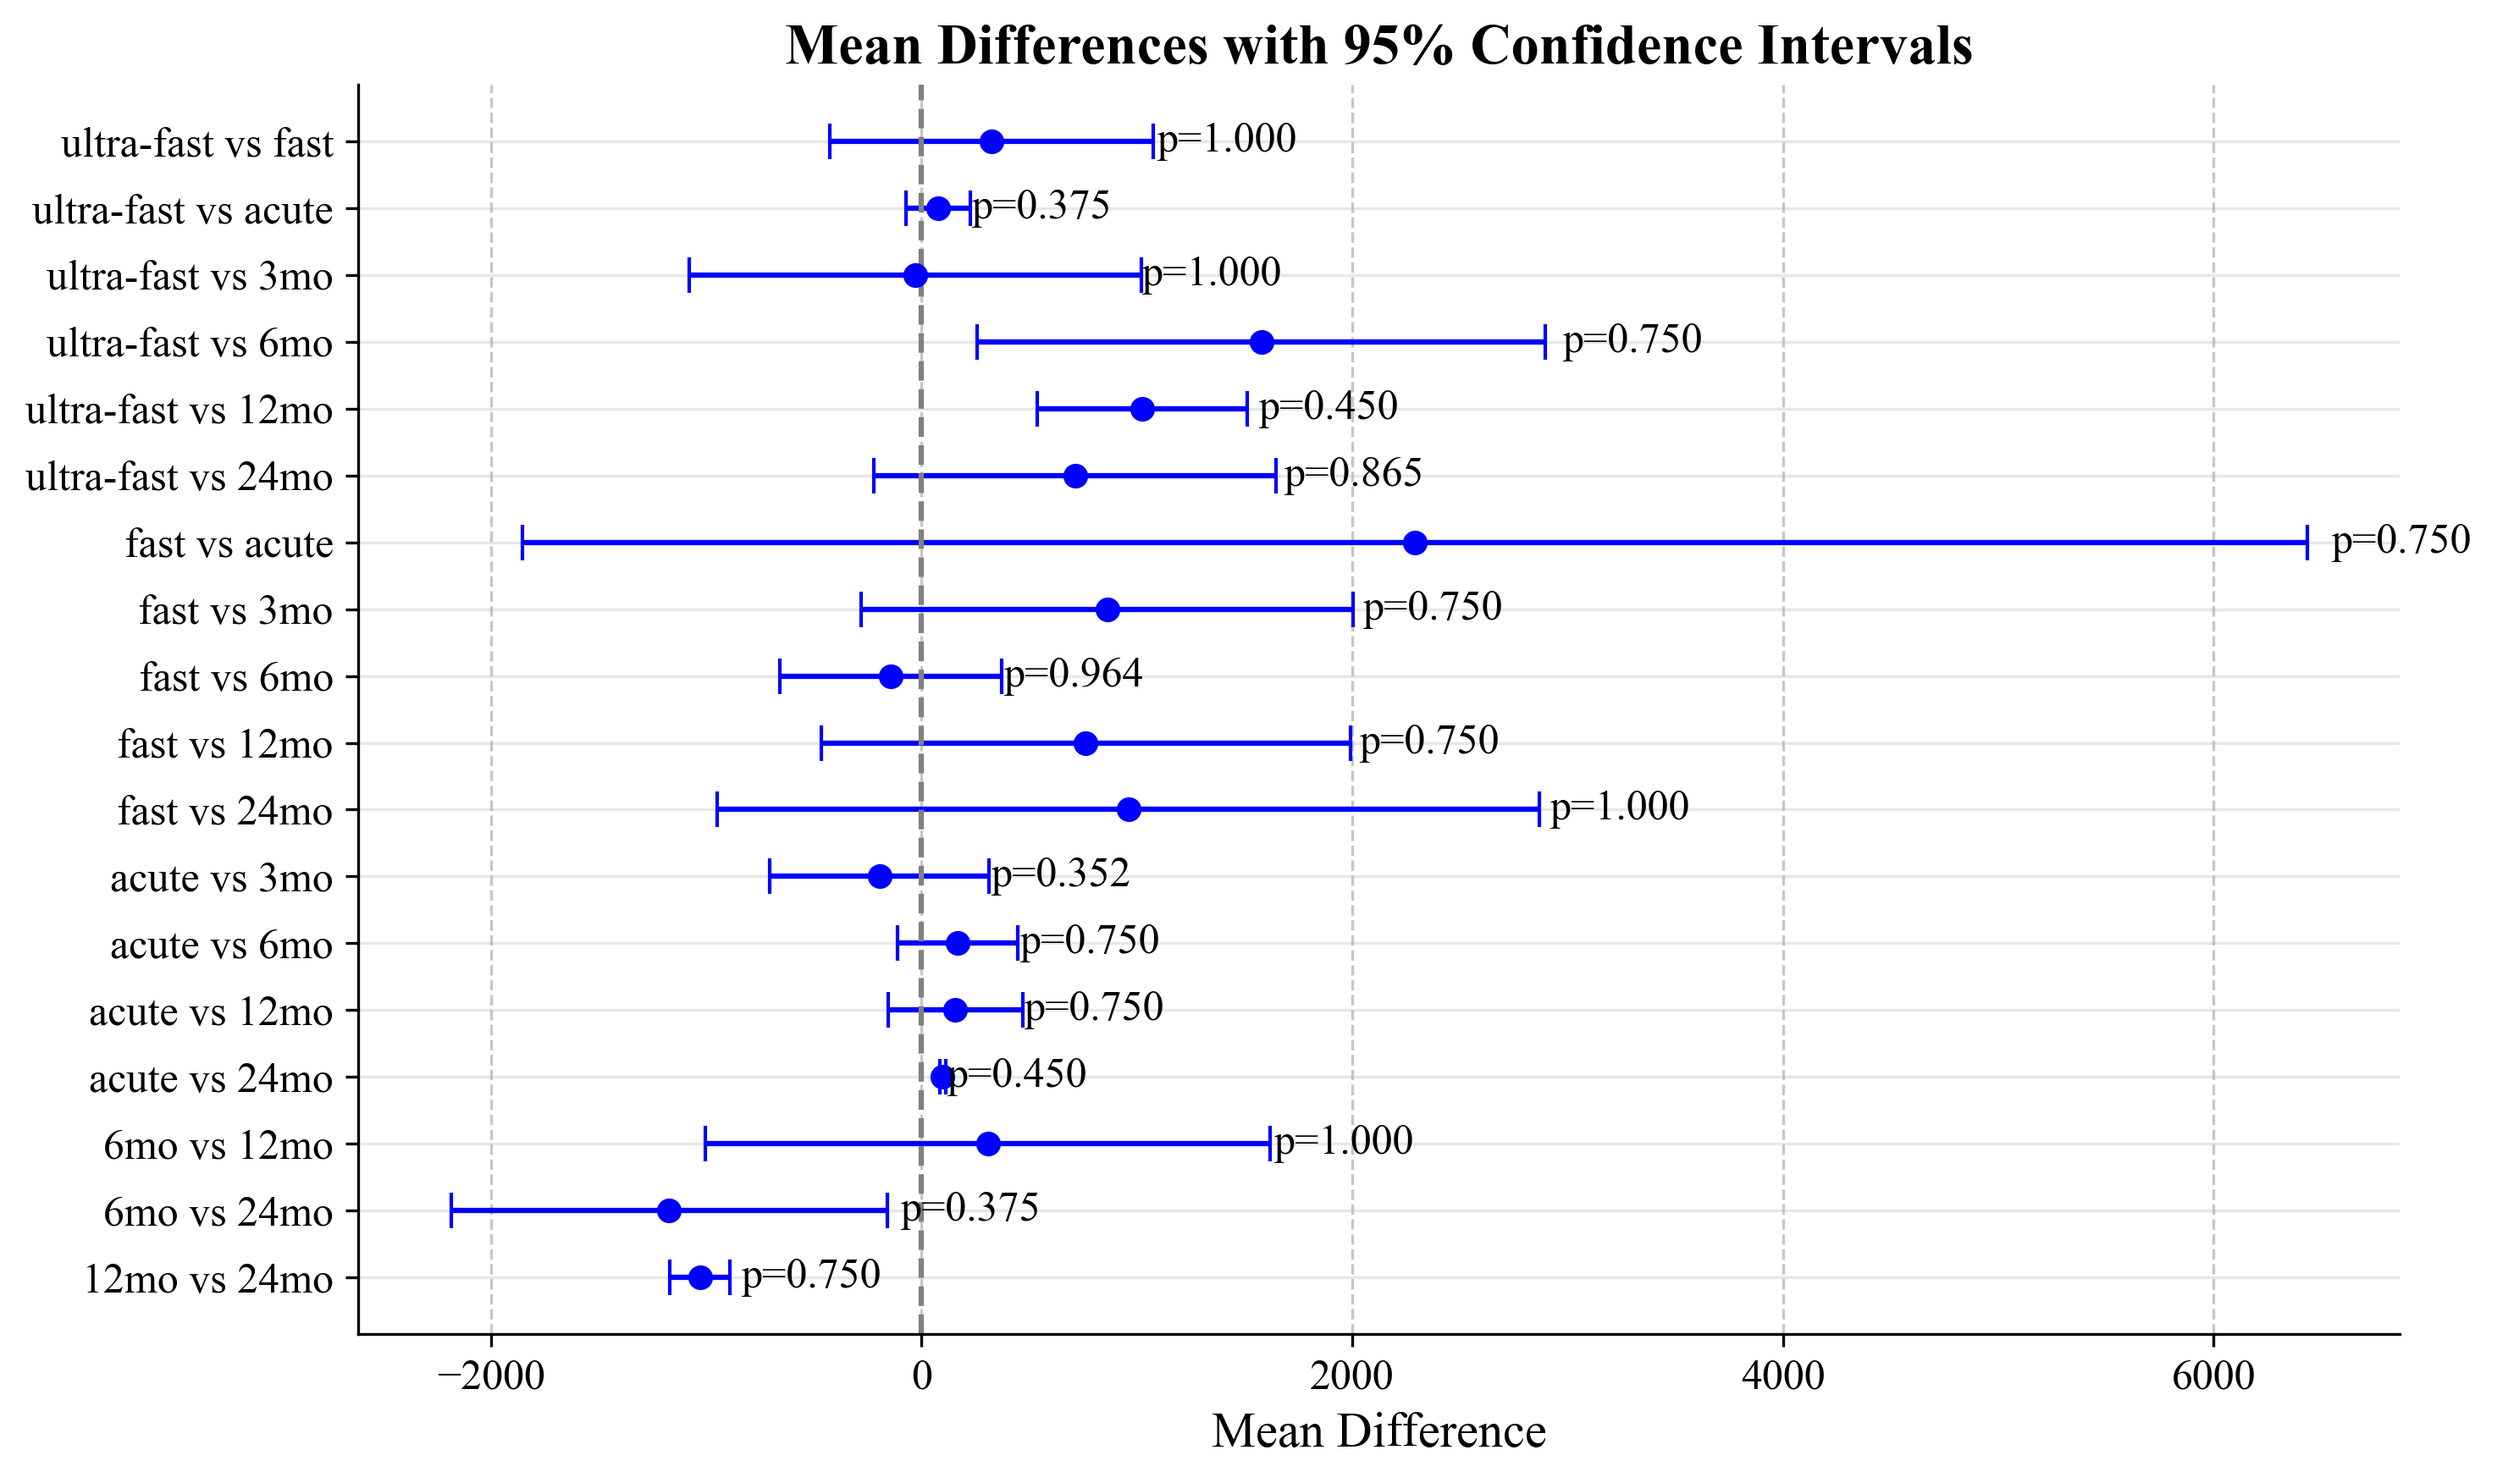
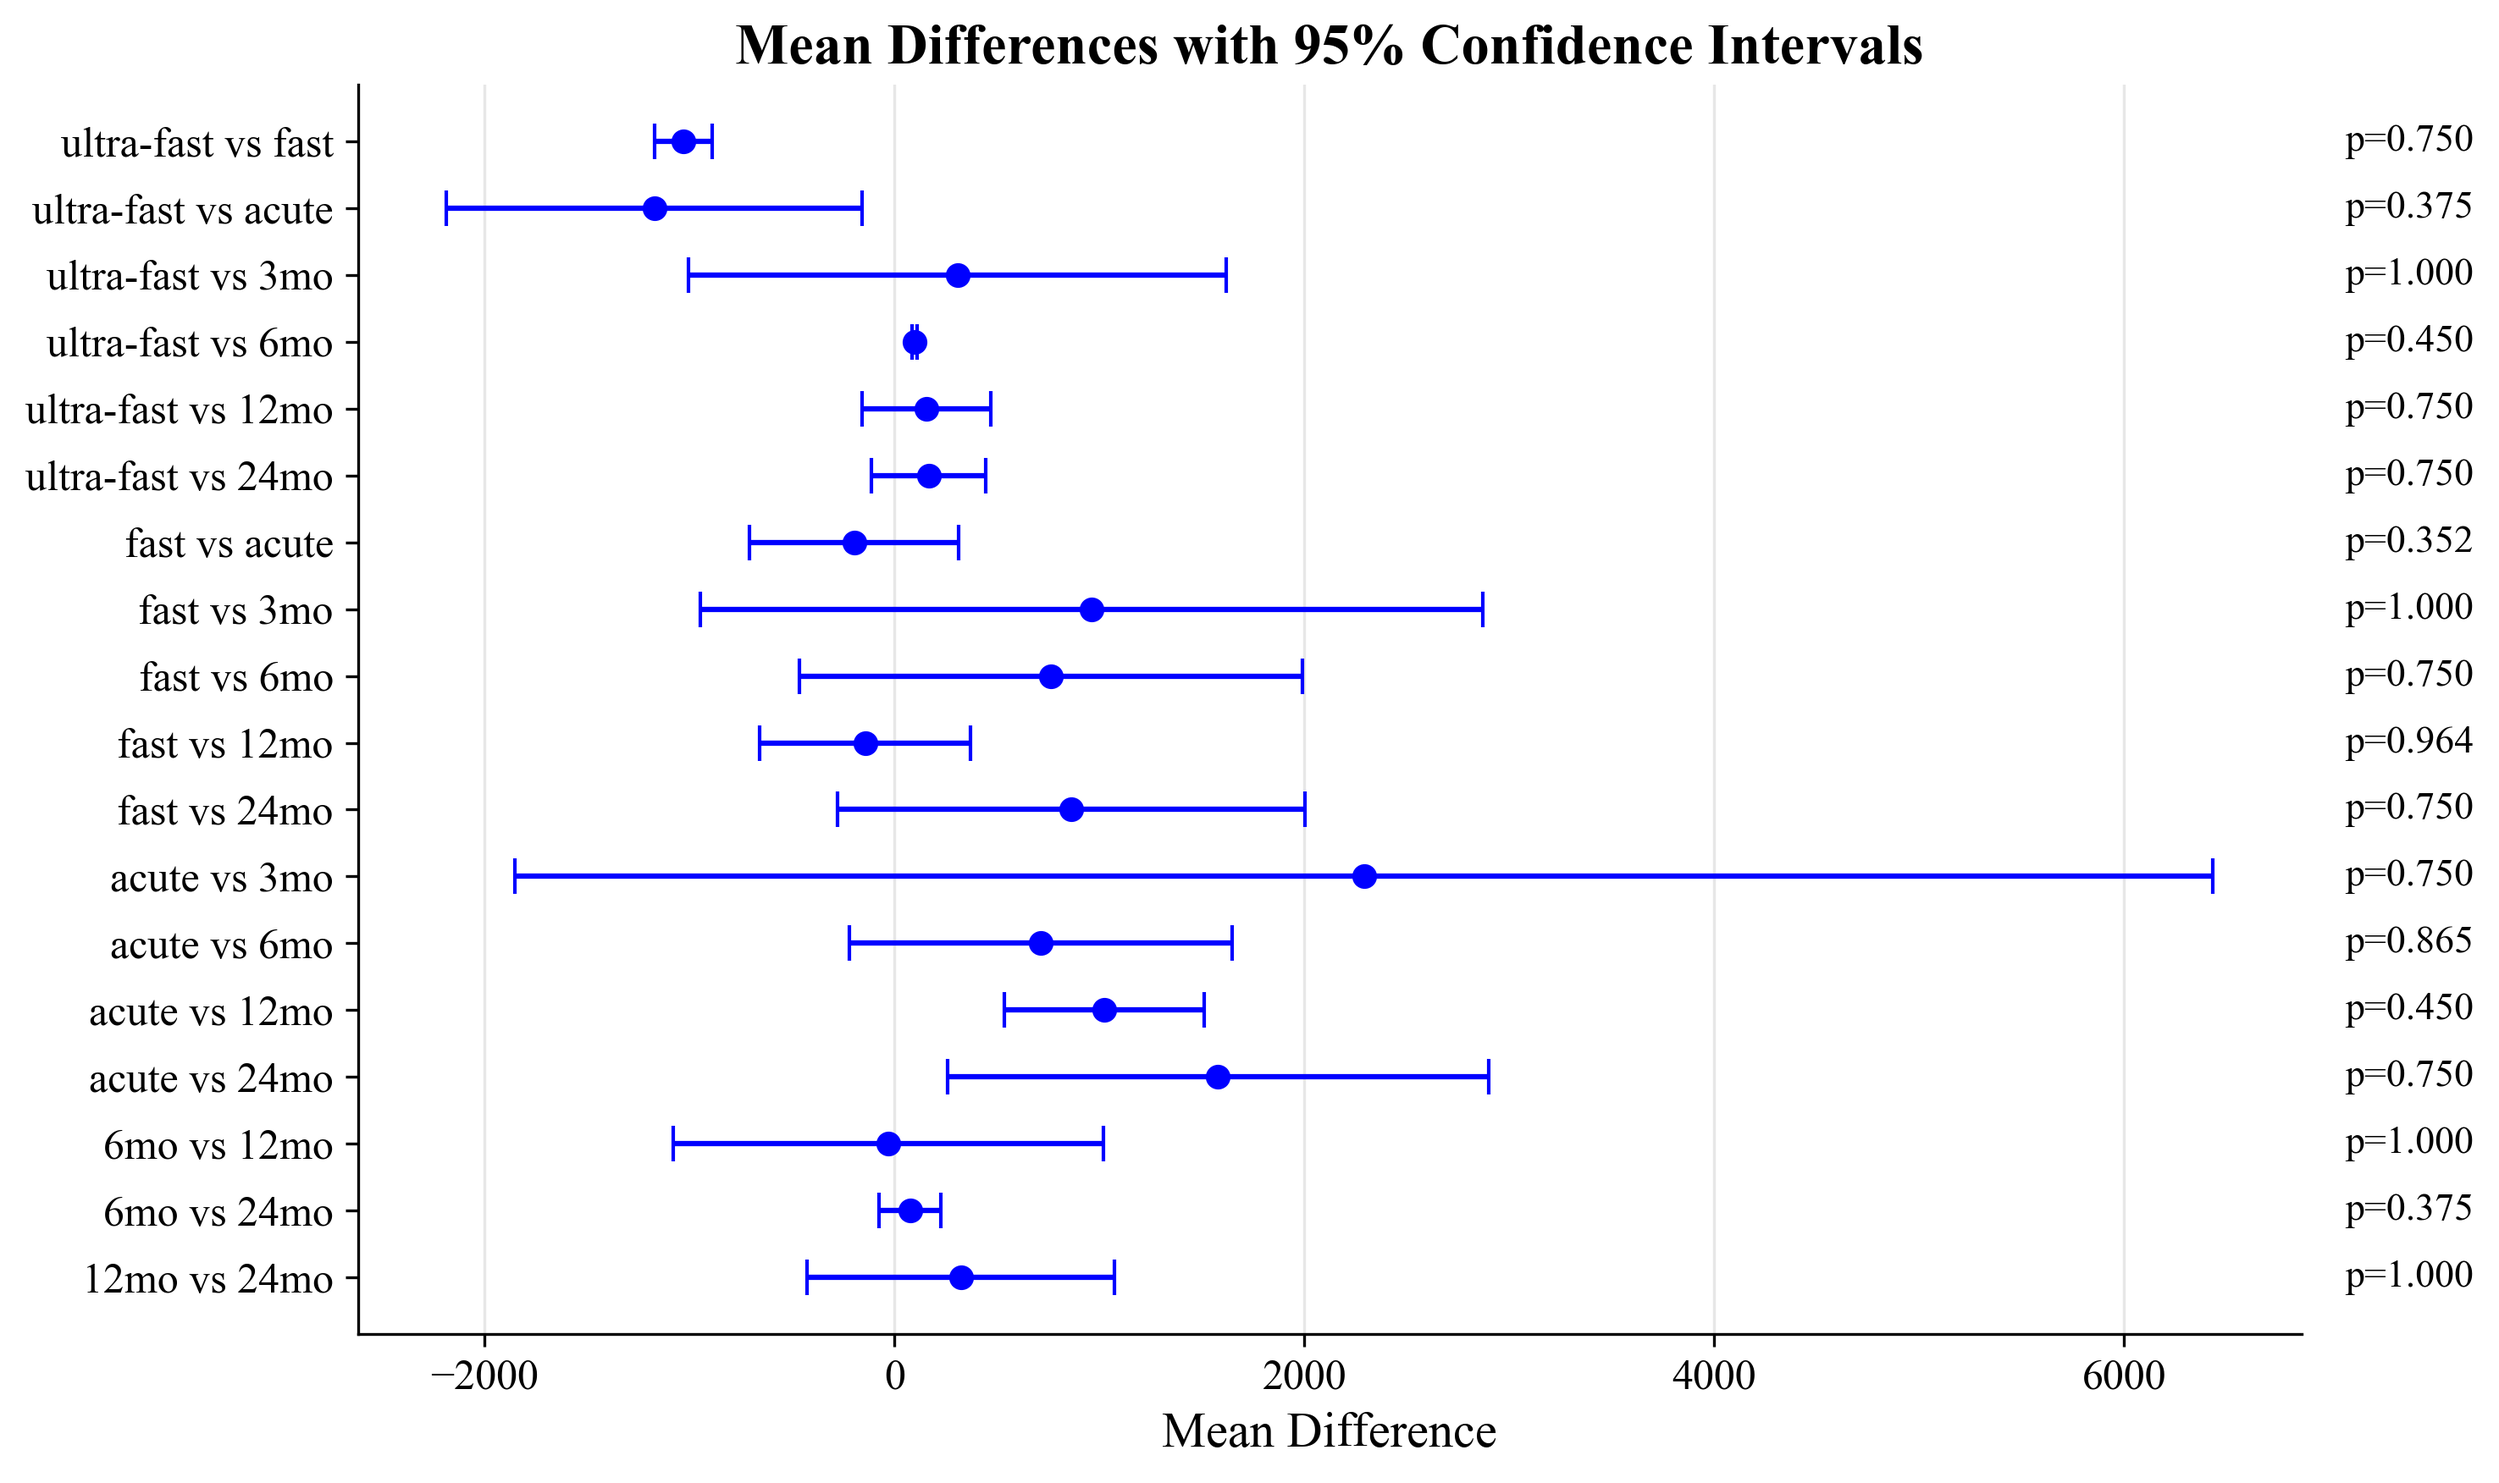
box plots

diff --git a/Image_Processing_Scripts/stats_main.py b/Image_Processing_Scripts/stats_main.py
@@ -600,61 +600,67 @@ for _, row in valid_wilcoxon_results.iterrows():
         'significant': row['significant'],
         'std_diff': row['std_diff']
     })
-
 if pair_data:
     summary_df = pd.DataFrame(pair_data)
     print(summary_df)
-    
     # Calculate confidence intervals (95%)
     summary_df['ci_lower'] = summary_df['mean_diff'] - 1.96 * summary_df['std_diff'] / np.sqrt(summary_df['n_pairs'])
     summary_df['ci_upper'] = summary_df['mean_diff'] + 1.96 * summary_df['std_diff'] / np.sqrt(summary_df['n_pairs'])
-    
     # Sort by mean difference
     #summary_df = summary_df.sort_values('mean_diff')
-    
     # Check that the number of colors matches the number of rows in summary_df
     colors = ['red' if sig else 'blue' for sig in summary_df['significant']]
     
     # Create forest plot
     plt.figure(figsize=(10, 6))
-    
-    # Keep the summary_df in its original order
-    # Use a plain range for y-positions to maintain order
-    n_comparisons = len(summary_df)
-    y_positions = np.arange(n_comparisons-1, -1, -1)
+    plt.grid(True, axis='x', linestyle='-', alpha=0.3)
+    plt.grid(False, axis='y')
 
+    n_comparisons = len(summary_df)
+    
+    # Plot points and error bars
     for i in range(len(summary_df)):
         plt.errorbar(
             summary_df.iloc[i]['mean_diff'],
-            y_positions[i],
-            xerr=[[summary_df.iloc[i]['mean_diff'] - summary_df.iloc[i]['ci_lower']], 
-                  [summary_df.iloc[i]['ci_upper'] - summary_df.iloc[i]['mean_diff']]],
+            n_comparisons - 1 - i,  # Reverse the y position
+            xerr=[[summary_df.iloc[i]['mean_diff'] - summary_df.iloc[i]['ci_lower']],
+                 [summary_df.iloc[i]['ci_upper'] - summary_df.iloc[i]['mean_diff']]],
             fmt='o',
             capsize=5,
-            color=colors[i]
+            color=colors[i], 
+            #markersize=8,
+            #elinewidth=2,
+            #capthick=2
         )
     
-    # Add labels
-    plt.yticks(range(len(summary_df)), summary_df['comparison'].iloc[::-1])
-    plt.axvline(x=0, color='gray', linestyle='--')
+    # Labels
+    plt.yticks(range(n_comparisons), list(reversed(summary_df['comparison'])))
+    #plt.axvline(x=0, color='gray', linestyle='-', linewidth=1.5, alpha=0.7)
     plt.title('Mean Differences with 95% Confidence Intervals')
     plt.xlabel('Mean Difference')
-    plt.grid(True, axis='x', linestyle='--', alpha=0.7)
     
-    # Add significance annotation
+    
+    # Add significance annotation (with reversed positions)
+    max_x=max([x['ci_upper'] for _, x in summary_df.iterrows()]) * 1.1
     for i in range(len(summary_df)):
         plt.text(
-            summary_df.iloc[i]['ci_upper'] + abs(summary_df.iloc[i]['mean_diff'])*0.05,
-            i,
+            max_x,  # Align all p-values to same x position
+            #i,
+            n_comparisons - 1 - i,  # Reverse the y position
             f"p={summary_df.iloc[i]['p_corrected']:.3f}{' *' if summary_df.iloc[i]['significant'] else ''}",
-            va='center'
+            va='center',
+            fontsize=11,
+            ha='left'
         )
+
+
+        
     
     plt.tight_layout()
     plt.savefig('Image_Processing_Scripts/mean_differences_summary.png')
     plt.savefig('../Thesis/phd-thesis-template-2.4/Chapter5/Figs/mean_differences_summary.png', dpi=600)
-    plt.show()
-    sys.exit()
+    plt.close()
+sys.exit()
 
 
 
